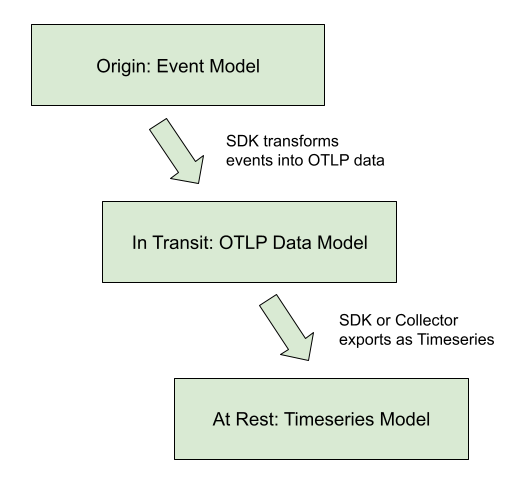
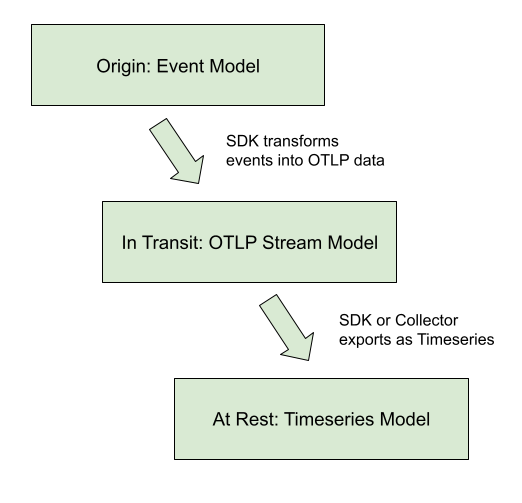
Expand event-model description to more clearly delineate instrument v… (#1614)
* Expand event-model description to more clearly delineate instrument vs. metric stream and some reasoning behind it.

* Fix lint.

* Address comments.

* fix spelling error in drawing.'
'
'

* Crop Image

* Fix label on model layer image.

* Tweak phrases of instruments and point directly at api specification.

* Add a little caveat for word-lawyers

* Updates from review.

* Fix lint.

Changed region(s): [[0.2146, 0.4473, 0.7356, 0.507]]

diff --git a/specification/metrics/datamodel.md b/specification/metrics/datamodel.md
@@ -146,31 +146,35 @@ OpenTelemetry fragments metrics into three interacting models:
 
 ### Event Model
 
-This specification uses as its foundation a
-[Metrics API consisting of 6 model instruments](api.md), each having distinct
-semantics, that were prototyped in several OpenTelemetry SDKs between July 2019
-and June 2020. The model instruments and their specific use-cases are meant to
-anchor our understanding of the OpenTelemetry data model and are divided into
-three categories:
+The event model is where recording of data happens. Its foundation is made of
+[Instruments](api.md), which are used to record data observations via events.
+These raw events are then transformed in some fashion before being sent to some
+other system.  OpenTelemetry metrics are designed such that the same instrument
+and events can be used in different ways to generate metric streams.
 
-- Synchronous vs. Asynchronous. The act of calling a Metrics API in a
-  synchronous context means the application/library calls the SDK, typically having
-  associated trace context and baggage; an Asynchronous instrument is called at
-  collection time, through a callback, and lacks context.
-- Adding vs. Grouping. Whereas adding instruments express a sum, grouping
-  instruments characterize a group of measurements. The numbers passed to adding
-  instruments define division, in the algebraic sense, while the numbers passed
-  to grouping instruments are generally not. Adding instrument values are always
-  parts of a sum, while grouping instrument values are individual measurements.
-- Monotonic vs. Non-Monotonic. The adding instruments are categorized by whether
-  the derivative of the quantity they express is non-negative. Monotonic
-  instruments are primarily useful for monitoring a rate value, whereas
-  non-monotonic instruments are primarily useful for monitoring a total value.
+![Events → Streams](img/model-event-layer.png)
+
+Even though observation events could be reported directly to a backend, in
+practice this would be infeasible due to the sheer volume of data used in
+observability systems, and the limited amount of network/cpu telemetry
+collection resources available for telemetry collection purposes. The best
+example of this is the Histogram metric where raw events are recorded in a
+compressed format rather than individual timeseries.
+
+> Note: The above picture shows how one instrument can transform events into
+> more than one type of metric stream. There are caveats and nuances for when
+> and how to do this.  Instrument and metric configuration are outlined
+> in the [metrics API specification](api.md).
+
+While OpenTelemetry provides flexibility in how instruments can be transformed
+into metric streams, the instruments are defined such that a reasonable default
+mapping can be provided. The exact
+[OpenTelemetry instruments](api.md##metric-instruments) are more fully
+detailed in the API specification.
 
 In the Event model, the primary data are (instrument, number) points, originally
 observed in real time or on demand (for the synchronous and asynchronous cases,
-respectively). The instruments and model use-cases will be described in greater
-detail as we link the event model with the other two.
+respectively).
 
 ### Timeseries Model
 
